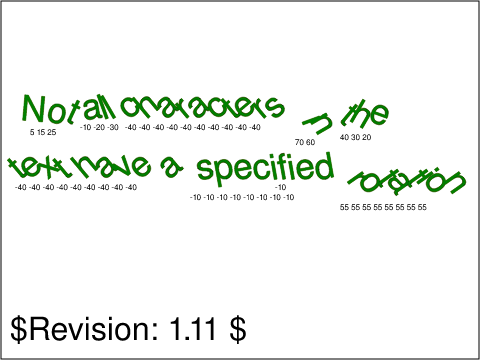
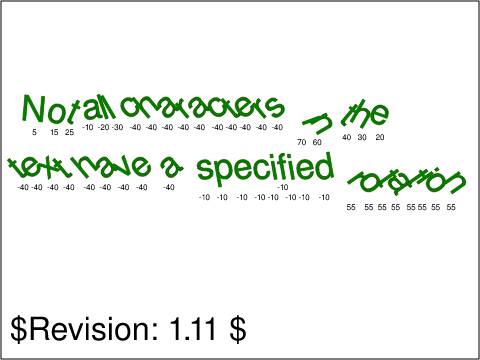
SVG rendering ignores xml:space="preserve" attribute for text
Make tspan and textPath inherit the css-whitespace property by default. This means it will either use the
same xml:space setting as its parent text container, or use its own xml:space value if provided.

This actually fixes text-tspan-02-b.svg.

BUG=231508

Review URL: https://codereview.chromium.org/166673006

git-svn-id: svn://svn.chromium.org/blink/trunk@167393 bbb929c8-8fbe-4397-9dbb-9b2b20218538

diff --git a/Source/core/css/svg.css b/Source/core/css/svg.css
@@ -51,8 +51,12 @@ text, foreignObject {
     display: block
 }
 
-text, tspan, textPath {
+text {
    white-space: nowrap
+}
+
+tspan, textPath {
+   white-space: inherit
 }
 
 /* states */
